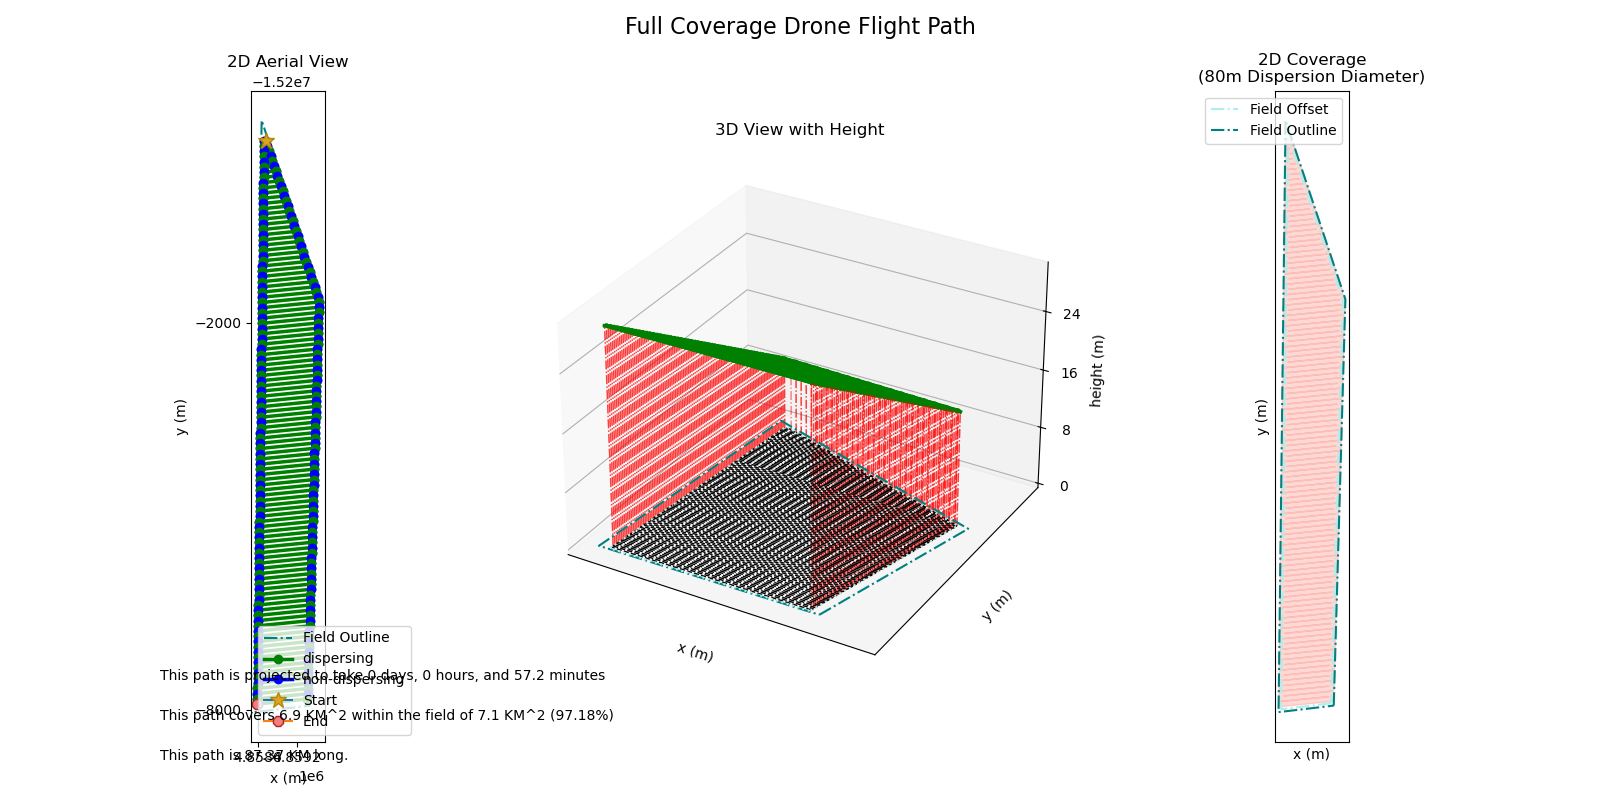
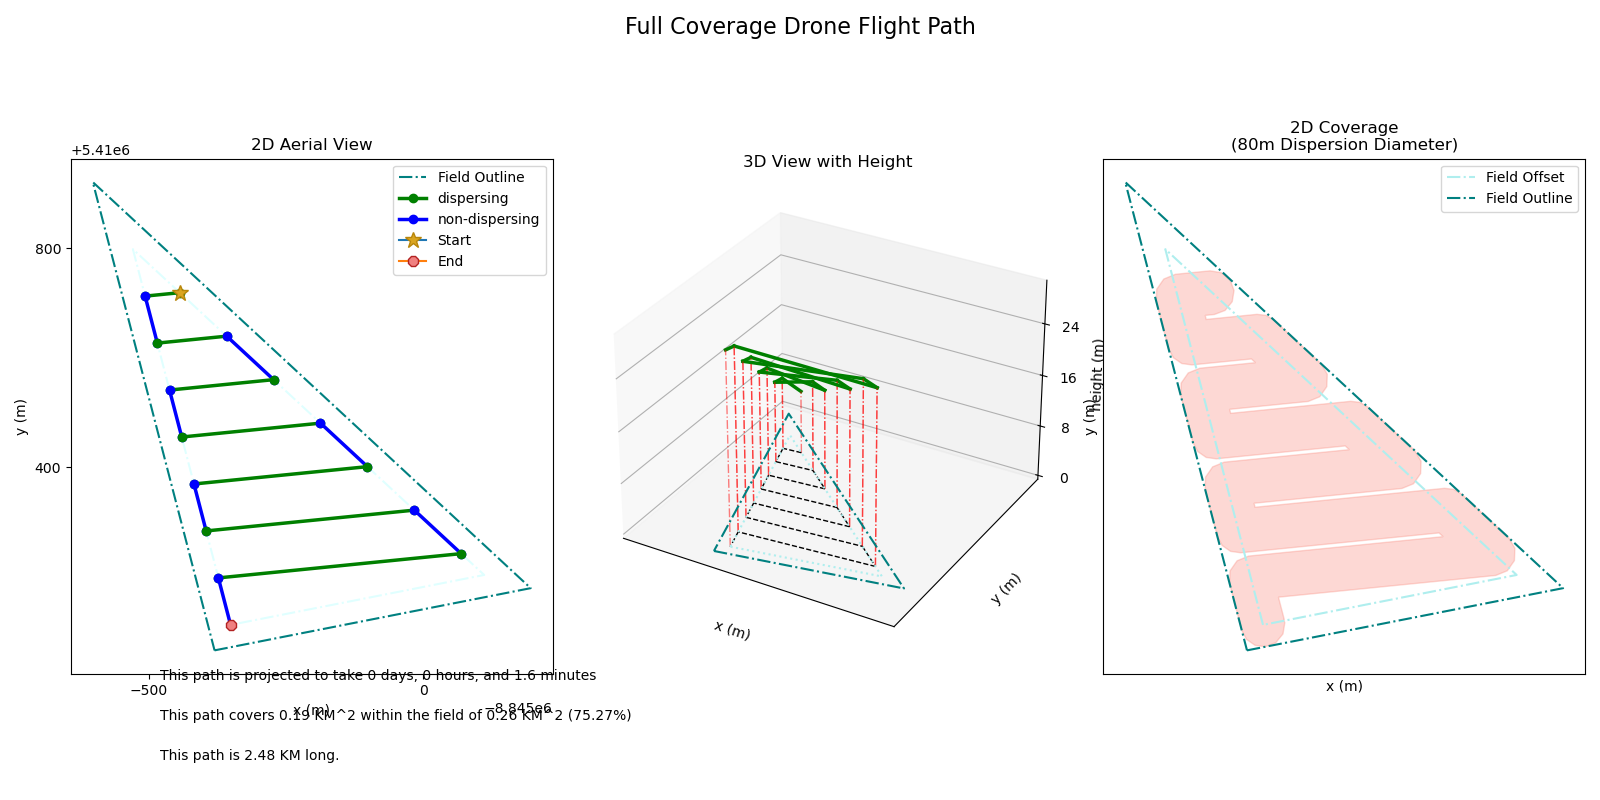
all change to epsg:3857

diff --git a/static/mapInteractions.js b/static/mapInteractions.js
@@ -5,45 +5,50 @@ require([
     "esri/views/MapView",
     "esri/Graphic",
     "esri/layers/GraphicsLayer",
-], function (Map, MapView, Graphic, GraphicsLayer) {
+    "esri/geometry/Point"
+], function (Map, MapView, Graphic, GraphicsLayer, Point) {
     map = new Map({
-        basemap: "streets",
+        basemap: "streets"
     });
+
     view = new MapView({
         container: "viewDiv",
         map: map,
         center: [-79.4637, 43.6465],
         zoom: 15,
     });
+
     graphicsLayer = new GraphicsLayer();
     map.add(graphicsLayer);
+
     view.on("click", function (event) {
-        var lat = event.mapPoint.latitude;
-        var lon = event.mapPoint.longitude;
-        var point = {
-            type: "point",
-            longitude: lon,
-            latitude: lat,
-        };
+        var point = new Point({
+            x: event.mapPoint.x,
+            y: event.mapPoint.y,
+            spatialReference: { wkid: 3857 }
+        });
+
         var simpleMarkerSymbol = {
             type: "simple-marker",
             color: [226, 119, 40],
             outline: {
                 color: [255, 255, 255],
-                width: 1,
-            },
+                width: 1
+            }
         };
+
         var pointGraphic = new Graphic({
             geometry: point,
-            symbol: simpleMarkerSymbol,
+            symbol: simpleMarkerSymbol
         });
         graphicsLayer.add(pointGraphic);
+
         fetch("/store-coords", {
             method: "POST",
             headers: {
-                "Content-Type": "application/json",
+                "Content-Type": "application/json"
             },
-            body: JSON.stringify({ latitude: lat, longitude: lon }),
+            body: JSON.stringify({ x: event.mapPoint.x, y: event.mapPoint.y })
         })
         .then((response) => response.json())
         .then((data) => {
@@ -60,7 +65,7 @@ function submitForm() {
     const formData = new FormData(form);
     fetch("/optimize", {
         method: "POST",
-        body: formData,
+        body: formData
     })
     .then((response) => response.json())
     .then((data) => {
@@ -73,7 +78,7 @@ function submitForm() {
             const plot = document.createElement("img");
             plot.src = `/static/${data.plot_path}`;
             plotDiv.appendChild(plot);
-            drawPathOnMap(data.best_path);
+            drawPathOnMap(data.best_path_coords);
         }
         const debugDiv = document.getElementById("debug");
         debugDiv.innerHTML = "";
@@ -95,19 +100,21 @@ function drawPathOnMap(pathDetails) {
             const polyline = {
                 type: "polyline",
                 paths: [
-                    [segment.start.longitude, segment.start.latitude],
-                    [segment.end.longitude, segment.end.latitude],
+                    [segment.start.x, segment.start.y],
+                    [segment.end.x, segment.end.y]
                 ],
+                spatialReference: { wkid: 3857 }
             };
-            console.log("Polyline details:", polyline);
+
             const simpleLineSymbol = {
                 type: "simple-line",
                 color: "#8A2BE2",
-                width: "2",
+                width: "2"
             };
+
             const polylineGraphic = new Graphic({
                 geometry: polyline,
-                symbol: simpleLineSymbol,
+                symbol: simpleLineSymbol
             });
             graphicsLayer.add(polylineGraphic);
         });

diff --git a/templates/map.html b/templates/map.html
@@ -1,0 +1,27 @@
+<!DOCTYPE html>
+<html>
+  <head>
+    <meta charset="utf-8" />
+    <title>ArcGIS Map</title>
+    <link
+      rel="stylesheet"
+      href="https://js.arcgis.com/4.21/esri/themes/light/main.css"
+    />
+    <style>
+      html,
+      body,
+      #viewDiv {
+        padding: 0;
+        margin: 0;
+        height: 100%;
+        width: 100%;
+      }
+    </style>
+    <script src="https://js.arcgis.com/4.21/"></script>
+  </head>
+
+  <body>
+    <div id="viewDiv"></div>
+    <script src="/static/mapInteractions.js"></script>
+  </body>
+</html>

diff --git a/static/style.css b/static/style.css
@@ -5,7 +5,7 @@ body {
     font-family: Arial, sans-serif;
 }
 #viewDiv {
-    flex: 2;
+    flex: 1;
     height: 100%;
     min-width: 50%;
 }

diff --git a/src/app.py b/src/app.py
@@ -21,6 +21,7 @@ STATIC_DIR = os.path.join(os.path.dirname(
     os.path.abspath(__file__)), '../static')
 DATA_DIR = os.path.join(os.path.dirname(os.path.abspath(__file__)), '../data')
 CSV_FILE_PATH = os.path.join(DATA_DIR, 'coordinates.csv')
+PROJECTED_COORDS_CSV_PATH = os.path.join(DATA_DIR, 'projected_coordinates.csv')
 
 # Ensure the data directory exists
 os.makedirs(DATA_DIR, exist_ok=True)
@@ -74,11 +75,30 @@ def optimize():
     # Assuming best_path.to_coordinates() returns coordinates in EPSG:3857
     projected_coords = best_path.to_coordinates()
 
+    # Save projected coordinates to a new CSV file
+    try:
+        with open(PROJECTED_COORDS_CSV_PATH, 'w', newline='') as csvfile:
+            fieldnames = ['start_x', 'start_y', 'end_x', 'end_y']
+            writer = csv.DictWriter(csvfile, fieldnames=fieldnames)
+
+            writer.writeheader()
+            for segment in projected_coords:
+                writer.writerow({
+                    'start_x': segment['start']['x'],
+                    'start_y': segment['start']['y'],
+                    'end_x': segment['end']['x'],
+                    'end_y': segment['end']['y']
+                })
+            debug_info.append(
+                f"Saved projected coordinates to {PROJECTED_COORDS_CSV_PATH}")
+    except Exception as e:
+        debug_info.append(f"Error saving projected coordinates: {str(e)}")
+
     return jsonify({
         'result': 'Optimized path calculated. Check the plot.',
         'plot_path': plot_filename,
         'runtime': runtime,
-        'best_path': projected_coords,
+        'best_path_coords': projected_coords,
         'debug': debug_info
     })
 
@@ -94,18 +114,18 @@ def store_coords():
         data = request.get_json()
         print(f"Received data: {data}")
 
-        latitude = data['latitude']
-        longitude = data['longitude']
+        x = data['x']
+        y = data['y']
 
         with open(CSV_FILE_PATH, 'a', newline='') as csvfile:
-            fieldnames = ['latitude', 'longitude']
+            fieldnames = ['x', 'y']
             writer = csv.DictWriter(csvfile, fieldnames=fieldnames)
 
             csvfile.seek(0, 2)
             if csvfile.tell() == 0:  # Check if file is empty and write header if it is
                 writer.writeheader()
 
-            writer.writerow({'latitude': latitude, 'longitude': longitude})
+            writer.writerow({'x': x, 'y': y})
             print(f"Written to CSV: {data}")
 
         return jsonify({'status': 'success'})

diff --git a/src/basic_functions.py b/src/basic_functions.py
@@ -318,25 +318,25 @@ def shp2coords(shapefile_path):
 """
 
 
-def gcs2pcs(lon, lat):
-    """Converts EPSG:4326 (lon&lat) to EPSG:3857 (meters)
-    """
-    transformer = Transformer.from_crs(
-        "EPSG:4326", "EPSG:3857", always_xy=True)
-    x, y = transformer.transform(lon, lat)
-    if x == np.inf or y == np.inf:
-        raise ValueError(
-            "input should be in sequence of (Longtitude, Latitude), it may be currently reversed")
-    return x, y
+# def gcs2pcs(lon, lat):
+#     """Converts EPSG:4326 (lon&lat) to EPSG:3857 (meters)
+#     """
+#     transformer = Transformer.from_crs(
+#         "EPSG:4326", "EPSG:3857", always_xy=True)
+#     x, y = transformer.transform(lon, lat)
+#     if x == np.inf or y == np.inf:
+#         raise ValueError(
+#             "input should be in sequence of (Longtitude, Latitude), it may be currently reversed")
+#     return x, y
 
 
-def pcs2gcs(x, y):
-    """Converts EPSG:3857 (meters) to EPSG:4326 (lat&lon)
-    """
-    transformer = Transformer.from_crs(
-        "EPSG:3857", "EPSG:4326", always_xy=True)
-    lon, lat = transformer.transform(x, y)
-    return lat, lon
+# def pcs2gcs(x, y):
+#     """Converts EPSG:3857 (meters) to EPSG:4326 (lat&lon)
+#     """
+#     transformer = Transformer.from_crs(
+#         "EPSG:3857", "EPSG:4326", always_xy=True)
+#     lon, lat = transformer.transform(x, y)
+#     return lat, lon
 
 
 def bccs2pcs(x, y):
@@ -351,18 +351,18 @@ def bccs2pcs(x, y):
     return x, y
 
 
-def gcs2pcs_batch(coords):
-    """Converts EPSG:4326 (lon&lat) to EPSG:3857 (meters)
-    but input is a whole list of EPSG:4326 coordinates
-    """
-    return [gcs2pcs(pt[0], pt[1]) for pt in coords]
+# def gcs2pcs_batch(coords):
+#     """Converts EPSG:4326 (lon&lat) to EPSG:3857 (meters)
+#     but input is a whole list of EPSG:4326 coordinates
+#     """
+#     return [gcs2pcs(pt[0], pt[1]) for pt in coords]
 
 
-def pcs2gcs_batch(coords):
-    """Converts EPSG:3857 (meters) to EPSG:4326 (lat&lon)
-    but input is a whole list of EPSG:3857 coordinates
-    """
-    return [pcs2gcs(pt[0], pt[1]) for pt in coords]
+# def pcs2gcs_batch(coords):
+#     """Converts EPSG:3857 (meters) to EPSG:4326 (lat&lon)
+#     but input is a whole list of EPSG:3857 coordinates
+#     """
+#     return [pcs2gcs(pt[0], pt[1]) for pt in coords]
 
 
 def bccs2gcs_batch(coords):

diff --git a/src/path.py b/src/path.py
@@ -54,24 +54,24 @@ class Path:
         dictionaries, each representing a line segment with its start and end geographic coordinates.
         """
         detailed_coords = []
-        coords_to_transform = []  # List to hold all coordinates for batch transformation
+        path_coords = []  # List to hold all coordinates for batch transformation
 
         for line in self.path:
             # Extract and collect all points for transformation
             start_point = line.coords[0]
             end_point = line.coords[-1]
-            coords_to_transform.extend([start_point, end_point])
+            path_coords.extend([start_point, end_point])
 
         # Convert all collected points from EPSG:3857 to EPSG:4326
-        transformed_coords = pcs2gcs_batch(coords_to_transform)
+        # transformed_coords = pcs2gcs_batch(coords_to_transform)
 
         # Iterate over transformed coordinates in pairs (start, end)
-        for i in range(0, len(transformed_coords), 2):
-            start_geo = transformed_coords[i]
-            end_geo = transformed_coords[i + 1]
+        for i in range(0, len(path_coords), 2):
+            start_geo = path_coords[i]
+            end_geo = path_coords[i + 1]
             detailed_coords.append({
-                'start': {'latitude': start_geo[1], 'longitude': start_geo[0]},
-                'end': {'latitude': end_geo[1], 'longitude': end_geo[0]}
+                'start': {'x': start_geo[0], 'y': start_geo[1]},
+                'end': {'x': end_geo[0], 'y': end_geo[1]}
             })
 
         return detailed_coords

diff --git a/src/optimization.py b/src/optimization.py
@@ -22,11 +22,11 @@ def generate_path(points: list, disp_diam, baseline_slope, invert=False, childre
     vis:            True for visualization of path
     invert:         True to show inverted path with same swath
     """
-    coords = gcs2pcs_batch(points)
-    if children:
-        children = [Outline(gcs2pcs_batch(child)) for child in children]
+    # coords = gcs2pcs_batch(points)
+    # if children:
+    #     children = [Outline(child) for child in children]
 
-    outline = Outline('outline', coords, children=children)
+    outline = Outline('outline', points, children=children)
     offset_outline = outline.poly_offset(disp_diam / 2)
     path = offset_outline.swath_gen(disp_diam, baseline_slope, invert)
 
